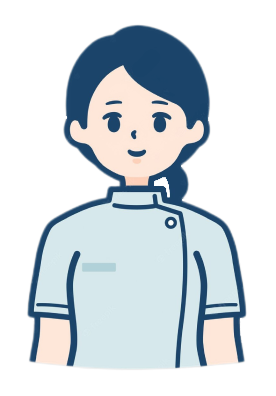
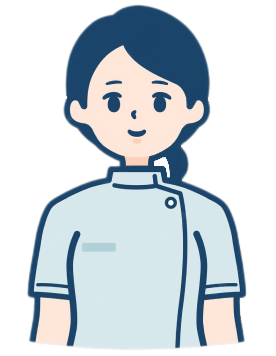
Updated Images and added them to main app

Changed region(s): [[0.087, 0.0, 0.8986, 0.9888]]

diff --git a/src/pages/component/aiart.tsx b/src/pages/component/aiart.tsx
@@ -1,7 +1,14 @@
 export default function AiArt() {
   return (
     <>
-      <div className="h-[18.75rem]"></div>
+      <div className="flex h-[18.75rem] justify-center align-middle">
+        <div className="flex flex-col justify-center text-center">
+          <img src="Claire.png" className="'h-[14.5rem] w-[11.875rem]" />
+          <h3 className="text-2xl">
+            Cl<span>ai</span>re
+          </h3>
+        </div>
+      </div>
     </>
   );
 }

diff --git a/src/pages/component/htmlhead.tsx b/src/pages/component/htmlhead.tsx
@@ -16,7 +16,7 @@ export default function HtmlHead() {
       />
       <title>CuraAI</title>
       <meta name="description" content="A online doctor AI to chat with" />
-      <link rel="icon" href="" />
+      <link rel="icon" href="Claire-256px.png" />
     </Head>
   );
 }
